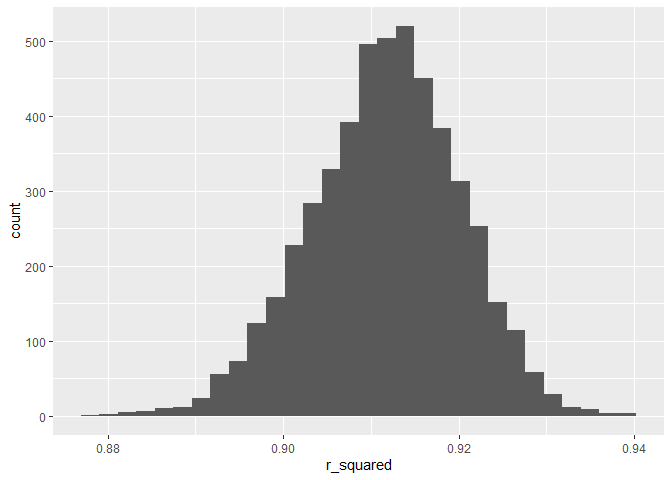
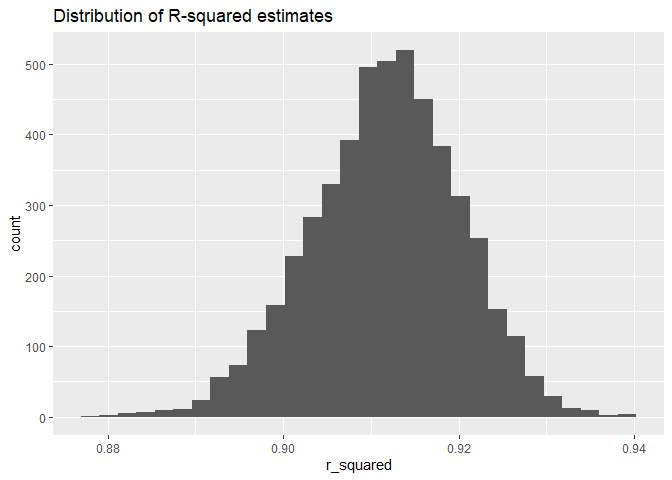
Final edits

diff --git a/p8105_HW6_rat2134.md b/p8105_HW6_rat2134.md
@@ -19,7 +19,18 @@ birthweight_data =
   mutate(babysex = factor(babysex),
          frace = factor(frace),
          malform = factor(malform),
-         mrace = factor(mrace))
+         mrace = factor(mrace),
+         babysex = recode(babysex,
+                          "1" = "male", "2" = "female"),
+         frace = recode(frace,
+                        "1" = "white", "2" = "black", "3" = "asian",
+                        "4" = "puerto rican", "8" = "other",
+                        "9" = "unknown"),
+         malform = recode(malform,
+                           "0" = "absent", "1" = "present"),
+         mrace = recode(mrace,
+                        "1" = "white", "2" = "black", "3" = "asian",
+                        "4" = "puerto rican", "8" = "other"))
 
 #Check for missing data
 length(which(is.na(birthweight_data))) 
@@ -32,16 +43,16 @@ missing values in the `birthweight` dataset. Now, we will identify an
 most appropriate regression model for birthweight. We will hypothesize
 that the following variables underly birthweight:
 
-  - `babysex`: the baby’s sex
-  - `blength`: the baby’s length
-  - `fincome`: family income
+  - `babysex`: the baby’s sex (male or female)
+  - `blength`: the baby’s length (in centimeters)
+  - `fincome`: family income (in dollars)
   - `gaweeks`: gestational age (in weeks)
-  - `malform`: the presence of malformations
-  - `momage`: the mother’s age
+  - `malform`: the presence of malformations (absent or present)
+  - `momage`: the mother’s age (in years)
   - `smoken`: average number of cigarettes smoked per day during
     pregnancy
 
-We will use each of these variables in our initial regression model for
+The variables above will be used in our initial regression model for
 birthweight.
 
 ``` r
@@ -63,15 +74,15 @@ summary(birthweight_reg_model)
     ## -1669.8  -214.0   -14.2   203.5  4119.2 
     ## 
     ## Coefficients:
-    ##               Estimate Std. Error t value Pr(>|t|)    
-    ## (Intercept) -4353.3055    99.3797 -43.805  < 2e-16 ***
-    ## babysex2      -17.4441    10.0823  -1.730   0.0837 .  
-    ## blength       126.3491     1.9907  63.468  < 2e-16 ***
-    ## fincome         1.4632     0.2042   7.165 9.10e-13 ***
-    ## gaweeks        26.0012     1.7131  15.178  < 2e-16 ***
-    ## malform1       80.5029    85.1990   0.945   0.3448    
-    ## momage          5.6066     1.3693   4.094 4.31e-05 ***
-    ## smoken         -3.2564     0.6810  -4.782 1.80e-06 ***
+    ##                  Estimate Std. Error t value Pr(>|t|)    
+    ## (Intercept)    -4353.3055    99.3797 -43.805  < 2e-16 ***
+    ## babysexfemale    -17.4441    10.0823  -1.730   0.0837 .  
+    ## blength          126.3491     1.9907  63.468  < 2e-16 ***
+    ## fincome            1.4632     0.2042   7.165 9.10e-13 ***
+    ## gaweeks           26.0012     1.7131  15.178  < 2e-16 ***
+    ## malformpresent    80.5029    85.1990   0.945   0.3448    
+    ## momage             5.6066     1.3693   4.094 4.31e-05 ***
+    ## smoken            -3.2564     0.6810  -4.782 1.80e-06 ***
     ## ---
     ## Signif. codes:  0 '***' 0.001 '**' 0.01 '*' 0.05 '.' 0.1 ' ' 1
     ## 
@@ -119,8 +130,8 @@ summary(new_birthweight_reg_model)
 After removing `babysex` and `malform`, the adjusted R-squared value
 changes negligibly, meaning that these two variables did not explain any
 further variance in the outcome that was not already accounted for by
-the other variables. In other words, these two variables were not
-substantially improving our model, so removing them was appropriate.
+the other variables in the model. Therefore, removing them was
+appropriate.
 
 ``` r
 #Plot of model residuals against fitted values
@@ -139,11 +150,11 @@ add_residuals(birthweight_data, new_birthweight_reg_model) %>%
 ![](p8105_HW6_rat2134_files/figure-gfm/unnamed-chunk-5-1.png)<!-- -->
 
 Not all of the model residuals seem to be scattered randomly around `y
-= 0` and outliers are present. Therefore, one or more of the variables
-in the model may not have a linear relationship with the outcome of
-interest (birthweight). Transforming the birthweight variable or
-implementing formal criteria for outlier removal may foster the
-development of a stronger model.
+= 0` (outliers are present). Therefore, one or more of the variables in
+the model may have a nonlinear relationship with the outcome of interest
+(birthweight). Transforming the birthweight variable or implementing
+formal criteria for outlier removal would foster the development of a
+stronger model.
 
 ``` r
 #Model comparison #1
@@ -198,9 +209,9 @@ pivot_longer(
 
 ![](p8105_HW6_rat2134_files/figure-gfm/unnamed-chunk-8-1.png)<!-- -->
 
-We can see that, on average, model comparison \#2 (the model containing
-head circumference, length, sex, and all interactions) has the lowest
-RMSE and is therefore the strongest model.
+We can see that model comparison \#2 (the model containing head
+circumference, length, sex, and all interactions), on average, has the
+lowest RMSE and is therefore the strongest model.
 
 # Problem 2
 
@@ -261,25 +272,32 @@ quantile(pull(bootstrap_results, log_est), probs = c(0.025, 0.975))
     ##     2.5%    97.5% 
     ## 1.965043 2.058939
 
-Therefore, a 95% confidence interval for the estimated coefficient of
-determination is (0.894, 0.927). A 95% confidence interval for the log
-of the product of the beta estimates is (1.965, 2.059).
+A 95% confidence interval for the estimated coefficient of determination
+is (0.894, 0.927). Similarly, a 95% confidence interval for the log of
+the product of the coefficient estimates is (1.965, 2.059).
 
 ``` r
-#Plotting distribution of estimates
 ggplot(data = bootstrap_results, aes(x = r_squared)) +
-  geom_histogram()
+  geom_histogram() +
+  labs(title = "Distribution of R-squared estimates")
 ```
-
-    ## `stat_bin()` using `bins = 30`. Pick better value with `binwidth`.
 
 ![](p8105_HW6_rat2134_files/figure-gfm/unnamed-chunk-12-1.png)<!-- -->
 
+We can see that the distribution of the estimated coefficients of
+determination from our bootstrapping process is fairly normally
+distributed. Each of our bootstrap models were able to explain between
+88% and 94% of the variance in the outcome (birthweight), which is very
+strong.
+
 ``` r
 ggplot(data = bootstrap_results, aes(x = log_est)) +
-  geom_histogram()
+  geom_histogram() +
+  labs(title = "Distribution of log of product of coefficient estimates")
 ```
 
-    ## `stat_bin()` using `bins = 30`. Pick better value with `binwidth`.
+![](p8105_HW6_rat2134_files/figure-gfm/unnamed-chunk-13-1.png)<!-- -->
 
-![](p8105_HW6_rat2134_files/figure-gfm/unnamed-chunk-12-2.png)<!-- -->
+Similarly, we can see that the distribution of the log of the product of
+the coefficient estimates from our bootstrapping process is fairly
+normally distributed.
